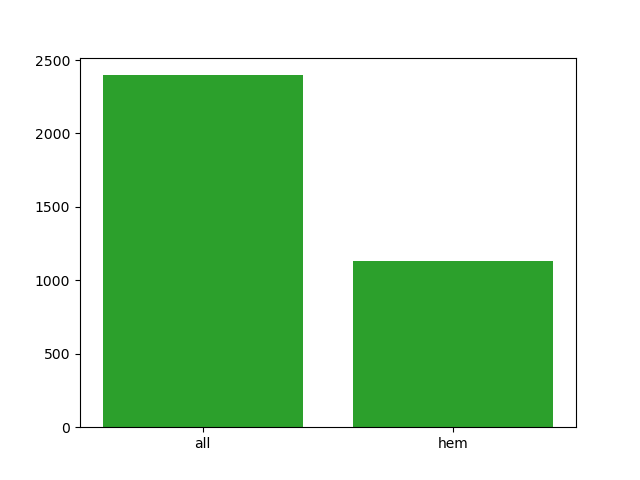
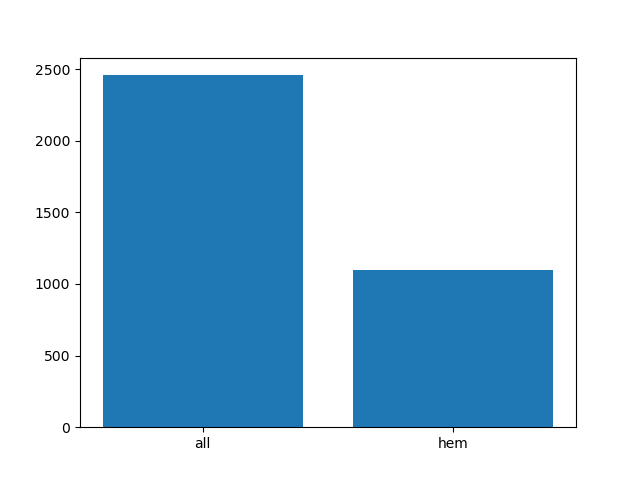
fixed plotting

diff --git a/main.py b/main.py
@@ -25,8 +25,8 @@ if __name__ == '__main__':
 
     train_data0, train_data1, train_data2, val_data, test_data = preprocessing.data_loading()
     preprocessing.plot_histogram(train_data0,"fold_0")
-    preprocessing.plot_histogram(train_data0,"fold_1")
-    preprocessing.plot_histogram(train_data0,"fold_2")
-    preprocessing.plot_histogram(train_data0,"val")
-    preprocessing.plot_histogram(train_data0,"test")
+    preprocessing.plot_histogram(train_data1,"fold_1")
+    preprocessing.plot_histogram(train_data2,"fold_2")
+    preprocessing.plot_histogram(val_data,"val")
+    preprocessing.plot_histogram(test_data,"test")
     

diff --git a/preprocessing.py b/preprocessing.py
@@ -1,6 +1,7 @@
 import matplotlib.pyplot as plt
 import numpy as np
 import pandas as pd
+import os
 from keras.preprocessing.image import ImageDataGenerator
 
 
@@ -64,9 +65,11 @@ def data_loading():
     
     return train_data_gen_fold_0, train_data_gen_fold_1, train_data_gen_fold_2, validation_data_gen, test_data_gen
 
+
 def plot_histogram(datagen, name):
     
+    plt.clf()
     labels = datagen.labels
-    x, y = np.unique(labels, return_counts=True)
+    _, y = np.unique(labels, return_counts=True)
     plt.bar(["all","hem"],y)
     plt.savefig("./histogram/"+name+".png")
